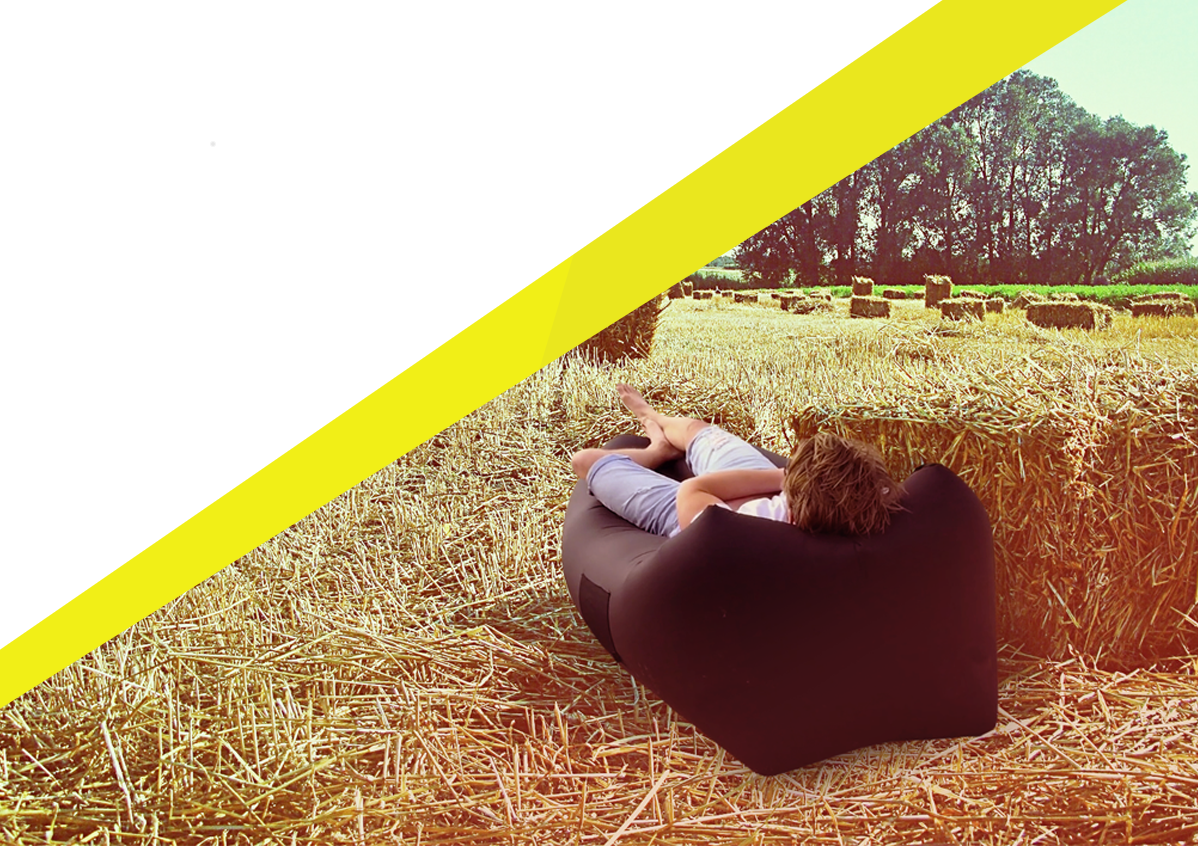
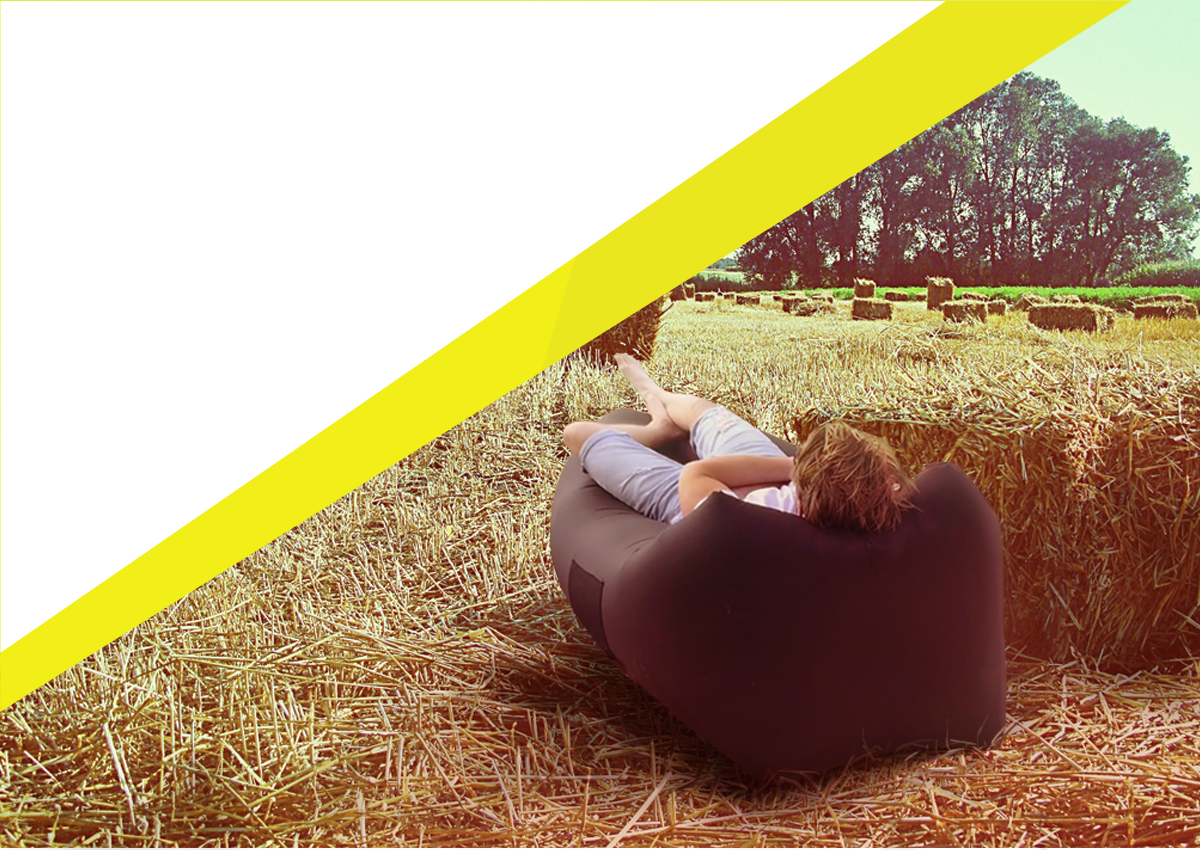
fix

diff --git a/other/bale/index.html b/other/bale/index.html
@@ -2,19 +2,33 @@
 <html>
   <head>
     <meta charset="UTF-8">
+    <meta name="viewport" content="width=device-width, initial-scale=1">
     <title>ВІЗЬМИ ВІДПОЧИНОК ІЗ СОБОЮ</title>
     <link rel="stylesheet" href="css/normalize.css">
     <link rel="stylesheet" href="css/fonts.css">
     <link rel="stylesheet" href="css/style.css">
     <link rel="stylesheet" href="css/animate.css">
+    <link rel="stylesheet" href="css/responsive.css">
     <link rel="shortcut icon" href="images/favicon.png">
   </head>
 <body class="wrapper" >
 <canvas id="canvas"></canvas>
 <img class="straw" src="images/1.png">
 <img class="straw" src="images/2.png">
+<img class="straw" src="images/4.png">
+<img class="straw" src="images/5.png">
+<img class="straw" src="images/6.png">
+<img class="straw" src="images/7.png">
+<img class="straw" src="images/8.png">
+<img class="straw" src="images/9.png">
+<img class="straw" src="images/10.png">
+<img class="straw" src="images/11.png">
+<img class="straw" src="images/12.png">
+<img class="straw" src="images/13.png">
+<img class="straw" src="images/14.png">
+<img class="straw" src="images/15.png">
     <header class="head">
-      <div class="container min-height">
+      <div class=" min-height">
         <div class="head-logo"><img src="images/logo.png" alt="logo"></div>
         <div class="head-content hidden_animation">ПЕРЕНОСНИЙ ВІТРЯНИЙ МІШОК <font>ДЛЯ РЕЛАКСУ, ЩО НАДУВАЄТЬСЯ ЗА 15 СЕКУНД</font> ДО РОЗМІРІВ ВАШОГО ЗРОСТУ</div>
         <div class="arr-down"></div>
@@ -22,9 +36,9 @@
       <div class="made_ua hidden_animation"></div>
     </header>
     <section class="block1">
-      <div class="container min-height">
+      <div class=" min-height">
         <h2 class="block1-title pull-right text-right mt-0 right"><font>ТЮК СІНА</font> ДОПОМАГАВ ВІДПОЧИТИ <font>100 РОКІВ НАЗАД</font></h2>
-        <h2 class="block1-title left"><font>ПОВІТРЯНИЙ ТЮК</font> ДОПОМАГАВ ВІДПОЧИТИ <font>В 2016 РОЦІ</font></h2>
+        <h2 class="block1-title left"><font>ПОВІТРЯНИЙ ТЮК</font> ДОПОМАГАЄ ВІДПОЧИТИ <font>В 2016 РОЦІ</font></h2>
         <div class="order-btn btn-absolute order-link"><span>ВЗЯТИ ТЮК</span><div class="pentagon"></div><div class="pentagon1"></div></div>
       </div>
     </section>
@@ -44,20 +58,20 @@
     </section>
     <section class="block3" id="context-example">
       <div class="block-bg1">
-        <div class="container min-height">
+        <div class=" min-height">
           <div class="head-content left"><b>ЖАГА ПРИСІСТИ</b> НА М`ЯКЕ<br> МОЖЕ БУТИ <b>ВТАМОВАНА</b><br> В БУДЬ-ЯКОМУ МІСЦІ <br><b>В БУДЬ-ЯКИЙ ЧАС</b></div>
           <div class="bale-img"><img src="images/img3.png" alt=""></div>
           <div class="arr-down_small"></div>
         </div>
       </div>
        <div class="block-bg2">
-         <div class="container min-height">
+         <div class=" min-height">
            <div class="head-content bg-text left">РЕЛАКС В НЕВАГОМОСТІ ПІСЛЯ<br> АКТИВНИХ ЗАНЯТЬ СПОРТОМ<br> АБО АКТИВНОГО<br> ВІДПОЧИНКУ</div>
            <div class="arr-down_small yellow"></div>
          </div>
        </div>
       <div class="block-bg3">
-        <div class="container min-height">
+        <div class=" min-height">
           <div class="head-content bg-text left"><b>ВЛАСНЕ МІСЦЕ МАНДРУЄ<br> З ТОБОЮ ПО ПАРКАХ</b>, ІВЕНТАХ<br> ТА ПРОГУЛЯНКАХ <br> ПІСЛЯ РОБОТИ</div>
           <div class="bale-img"><img src="images/img3.png" alt=""></div>
           <div class="arr-down_small grey"></div>
@@ -65,9 +79,9 @@
       </div>
     </section>
     <section id="context-example1" class="block4">
-     <div class="container">
+     <div class="">
         <h2 class="block4-title"><font>3</font> ВАРІАНТИ ЗАМОВЛЕННЯ:</h2>
-        <div class="block4-content">
+        <div class="block4-content container">
           <ul class="content-box clearfix">
             <li class="box-item">
               <div class="item-border">
@@ -95,10 +109,12 @@
             </li>
           </ul>
         </div>
+      </section>
+      <section>
         <p class="block4-info">Гарантія якості<br> Протягом 14 днів Ви маєте право повернути Тюк або замінити на другий (можливо Вам захочеться інший колір)</p>
       </section>
       <section class="block5">
-      <div class="container min-height">
+      <div class=" min-height">
         <h3 class="block5-title"><font>І ТАК...</font><br> ПОВІТРЯ НІЧНОГО МІСТА<br> СМАКУЄ СОЛОДШЕ, ЯКЩО ІЗ ТОБОЮ <img src="images/3.png" alt="тюк"></h3>
         <div class="block5-btn">
          <div class="order-btn take order-link"><span>ЗАМОВИТИ тюк</span><div class="pentagon"></div><div class="pentagon1"></div></div>
@@ -106,13 +122,26 @@
       </div>
      </div>
     </section>
+    <footer class="footer">
+      <div class="footer-tel-box">
+        <a href="" class="footer-tel"></a>
+        <a href="" class="footer-tel"></a>
+        <a href="" class="footer-tel"></a>
+      </div>
+      <div class="footer-form">
+        <form class="reg-form" action="">
+          <label for="tel"><span>Телефон:</span> <input id="tel1" class="input-text" type="text"></label>
+            <div class="order-btn reg-btn"><span><input class="input-btn" type="submit" value="ДАЛІ"></span><div class="pentagon"></div><div class="pentagon1"></div></div>
+        </form>
+      </div>
+    </footer>
     
     <script src="js/jquery-1.12.3.min.js"></script>
     <script src="js/jquery.snow.js"></script>
     <script src="js/jquery.waypoints.min.js"></script>
+     <script type="text/javascript" src="scripts/inputmask.js"></script> 
+     <script type="text/javascript" src="scripts/jquery.inputmask.js"></script> 
     <script type="text/javascript" src="scripts/jquery.scrollTo.js"></script>
-    <!-- <script type="text/javascript" src="scripts/inputmask.js"></script> -->
-    <!-- <script type="text/javascript" src="scripts/jquery.inputmask.js"></script> -->
     <script src="js/app.js"></script>
 
     <div id="modal_form"><!-- Сaмo oкнo --> 

diff --git a/other/bale/css/style.css b/other/bale/css/style.css
@@ -49,11 +49,12 @@ body {
   /*width: 1200px;*/
  position: relative;
 }
-/* .container {
+ .container {
   margin: 0 auto;
   width: 1200px;
   position: relative;
-} */
+} 
+
 .min-height {
   min-height: 848px;
 }
@@ -67,12 +68,13 @@ body {
   clear: both;
 }
 .head {
-  background: url(images/bg1.png) no-repeat;
+  background: url(images/bg1.png) no-repeat center;
   background-size: cover;
   position: relative;
   min-height: 848px;
   padding: 41px 34px;
   z-index: 5;
+  border-bottom: 3px solid #e9e61c;
 }
 
 .head-logo {
@@ -101,10 +103,9 @@ body {
   background: url(images/arr-down.png) no-repeat;
   height: 172px;
   width: 82px;
-  /*left: 187px;*/
-  left: 40px;
-  bottom: 40px;
-  cursor: pointer;
+  bottom: 8%;
+  left: 11%;
+  margin: -86px 0 0 -41px;
 }
 
 .made_ua {
@@ -123,7 +124,7 @@ body {
      opacity:1;
 }
 .block1 {
-  background: url(images/block1.png) no-repeat;
+  background: url(images/block1.png) no-repeat center;
   background-size: cover;
   min-height: 850px;
   padding: 46px 39px;
@@ -274,7 +275,7 @@ body {
 }
 
 .block-bg1 {
-  background: url(images/bg2.png) no-repeat;
+  background: url(images/bg2.png) no-repeat center;
   background-size: cover;
   min-height: 849px;
   padding: 39px;
@@ -282,9 +283,16 @@ body {
 }
 
 .bale-img {
-  position: relative;
-  width: 1200px;
   text-align: center;
+  position: absolute;
+  z-index: 5;
+  left: 100px;
+  top: 120px;
+  top: 50%;
+  left: 50%;
+  width: 880px;
+  height: 422px;
+  margin: -211px 0 0 -440px;
 }
 
 .block3 {
@@ -321,7 +329,7 @@ body {
   margin: -211px 0 0 -440px;
 }
 .block-bg2 {
-  background: url(images/1.jpg) no-repeat;
+  background: url(images/1.jpg) no-repeat center;
   background-size: cover;
   min-height: 848px;
   padding: 39px;
@@ -346,7 +354,7 @@ body {
 }
 
 .block-bg3 {
-  background: url(images/2.jpg) no-repeat;
+  background: url(images/2.jpg) no-repeat center;
   /*background: url(images/bg5.png) no-repeat;*/
   min-height: 848px;
   background-size: cover;
@@ -439,8 +447,10 @@ body {
   font-size: 19.32px;
   font-weight: 800;
   color: #636363;
-  transform: scale(0.992,0.984);
   margin: 0;
+  text-transform: uppercase;
+  background: #e9e61c;
+  padding: 44px;
 }
 
 /* For modern browsers */
@@ -459,7 +469,7 @@ body {
 }
 
 .block5 {
-  background: url(images/bg7.png) no-repeat;
+  background: url(images/bg7.png) no-repeat center;
   background-size: cover;
   min-height: 849px;
   padding: 44px;
@@ -652,4 +662,10 @@ body {
 .social-box a:hover {
   -webkit-filter: invert(100%);
   filter: invert(100%);
+}
+
+.footer {
+  height: 312px;
+  padding: 41px;
+  background: #e9e61c;
 }

diff --git a/other/bale/css/responsive.css b/other/bale/css/responsive.css
@@ -1,0 +1,31 @@
+@media only screen 
+  and (min-device-width: 1500px) 
+  and (max-device-width: 1600px) 
+  and (-webkit-min-device-pixel-ratio: 1) {
+    .arr-down {
+      left: 109px;
+    }
+    
+}
+@media only screen 
+  and (min-device-width: 1700px) 
+  and (max-device-width: 1900px) 
+  and (-webkit-min-device-pixel-ratio: 1) {
+    .arr-down {
+      left: 200px;
+    }
+    
+}
+@media only screen 
+  and (min-device-width: 768px) 
+  and (max-device-width: 1024px) 
+  and (-webkit-min-device-pixel-ratio: 1) {
+  	
+}
+
+@media only screen 
+  and (min-device-width: 320px) 
+  and (max-device-width: 480px)
+  and (-webkit-min-device-pixel-ratio: 2) {
+  
+}

diff --git a/other/racing/index.html b/other/racing/index.html
@@ -247,7 +247,7 @@
   <script type="text/javascript" src="http://code.jquery.com/jquery-latest.min.js"></script>
 
   <!-- Add mousewheel plugin (this is optional) -->
-  <script type="text/javascript" src="js/lib/jquery.mousewheel-3.0.6.pack.js"></script>
+  <script type="text/javascript" src="js/lib/jquery.mousewheel.pack.js"></script>
 
   <!-- Add fancyBox -->
   <link rel="stylesheet" href="js/source/jquery.fancybox.css?v=2.1.5" type="text/css" media="screen" />

diff --git a/other/bale/js/jquery.snow.js b/other/bale/js/jquery.snow.js
@@ -11,7 +11,7 @@
 var flakes = [],
     canvas = document.getElementById("canvas"),
     ctx = canvas.getContext("2d"),
-    flakeCount = 20,
+    flakeCount = 40,
     mX = -100,
     mY = -100
 
@@ -28,7 +28,6 @@ var straw = [];
 
 for (var i = 0; i < flakeCount; i++) {
     straw.push(random(0,imagesCount));
-    console.log(straw);
 }
 function snow() {
     ctx.clearRect(0, 0, canvas.width, canvas.height);

diff --git a/other/bale/js/app.js b/other/bale/js/app.js
@@ -106,8 +106,8 @@ var waypoint1 = new Waypoint({
   offset: '100%'
 })
 
-  // $("#phone").inputmask("+38(999)999-99-99");
-  // $("#phone1").inputmask("+38(999)999-99-99");
+   // $("#tel").inputmask("+38(999)999-99-99");
+   // $("#tel1").inputmask("+38(999)999-99-99");
 
 
   $('.order-link').click(function(){

diff --git a/other/racing/registration.php b/other/racing/registration.php
@@ -7,7 +7,7 @@ $message .= "Email: {$_POST['email']} \n";
 $message .= "Телефон: {$_POST['phone']} \n";
 // $message .= "Skype: {$_POST['skype']} \n";
 
-$to = "";
+$to = "sasha@readytorace.ru";
 $headers = "Content-type: text/plain;charset=utf-8"; 
 $subject = "=?UTF-8?B?".base64_encode("Заявка на регистрацию")."?=";
 
